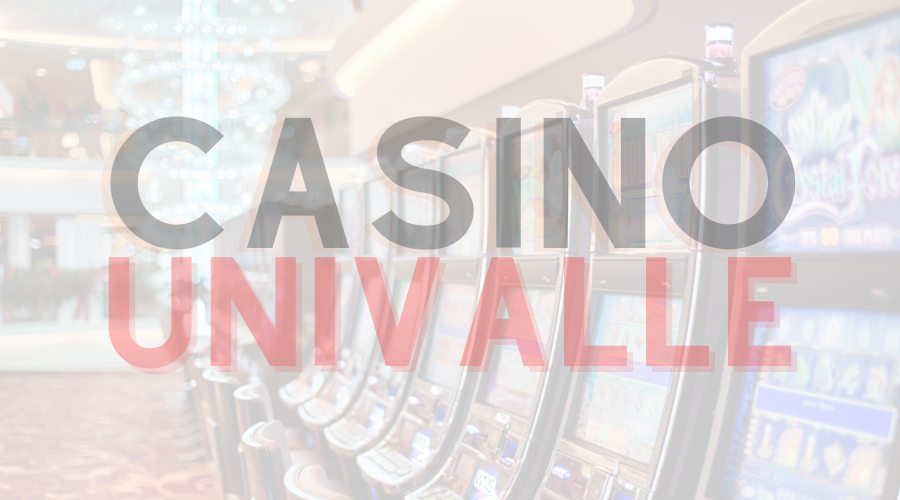
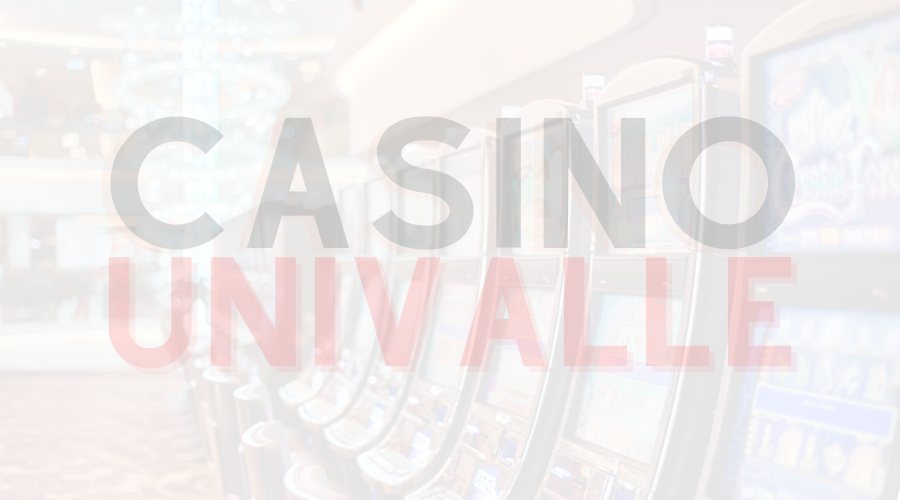
Se subio la transparencia del fondo

diff --git a/Casino/src/co/edu/univalle/vistaCasino/Inicio.java b/Casino/src/co/edu/univalle/vistaCasino/Inicio.java
@@ -196,13 +196,13 @@ public class Inicio extends JFrame {
         JLabel lblTemp4 = new JLabel("  ");
         JLabel lblTemp5 = new JLabel("  ");
 
-        lblTitulo = new JLabel();
-        lblTitulo.setText("CASINO UNIVALLE");
-        lblTitulo.setFont(new java.awt.Font("Perpetua Titling MT", 0, 24)); // NOI18N
-        lblTitulo.setHorizontalAlignment(javax.swing.SwingConstants.CENTER);
+//        lblTitulo = new JLabel();
+//        lblTitulo.setText("BIENVENIDOS");
+//        lblTitulo.setFont(new java.awt.Font("Perpetua Titling MT", 0, 24)); // NOI18N
+//        lblTitulo.setHorizontalAlignment(javax.swing.SwingConstants.CENTER);
 
         lblLogo = new JLabel();
-        Icon logo = new javax.swing.ImageIcon(getClass().getResource("/imagenes/icono.png"));
+        Icon logo = new javax.swing.ImageIcon(getClass().getResource("/imagenes/mensaje.png"));
         lblLogo.setIcon(logo);
 
         btnEmpezar = new JButton();
@@ -227,29 +227,29 @@ public class Inicio extends JFrame {
         panel.setOpaque(false);
 
         // Put constraints on different buttons
-        gbc.gridx = 0;
-        gbc.gridy = 0;
-        gbc.gridheight = 1;
-        gbc.fill = GridBagConstraints.CENTER;
-        panel.add(lblTitulo, gbc);
+//        gbc.gridx = 0;
+//        gbc.gridy = 0;
+//        gbc.gridheight = 1;
+//        gbc.fill = GridBagConstraints.CENTER;
+//        panel.add(lblTitulo, gbc);
 
-        gbc.gridx = 0;
-        gbc.gridy = 1;
-        gbc.gridwidth = 3;
-        gbc.fill = GridBagConstraints.CENTER;
-        panel.add(lblTemp3, gbc);
-
-        gbc.gridx = 0;
-        gbc.gridy = 2;
-        gbc.gridwidth = 3;
-        gbc.fill = GridBagConstraints.CENTER;
-        panel.add(lblTemp4, gbc);
-
-        gbc.gridx = 0;
-        gbc.gridy = 3;
-        gbc.gridwidth = 3;
-        gbc.fill = GridBagConstraints.CENTER;
-        panel.add(lblTemp5, gbc);
+//        gbc.gridx = 0;
+//        gbc.gridy = 1;
+//        gbc.gridwidth = 3;
+//        gbc.fill = GridBagConstraints.CENTER;
+//        panel.add(lblTemp3, gbc);
+//
+//        gbc.gridx = 0;
+//        gbc.gridy = 2;
+//        gbc.gridwidth = 3;
+//        gbc.fill = GridBagConstraints.CENTER;
+//        panel.add(lblTemp4, gbc);
+//
+//        gbc.gridx = 0;
+//        gbc.gridy = 3;
+//        gbc.gridwidth = 3;
+//        gbc.fill = GridBagConstraints.CENTER;
+//        panel.add(lblTemp5, gbc);
 
         gbc.gridx = 0;
         gbc.gridy = 4;
